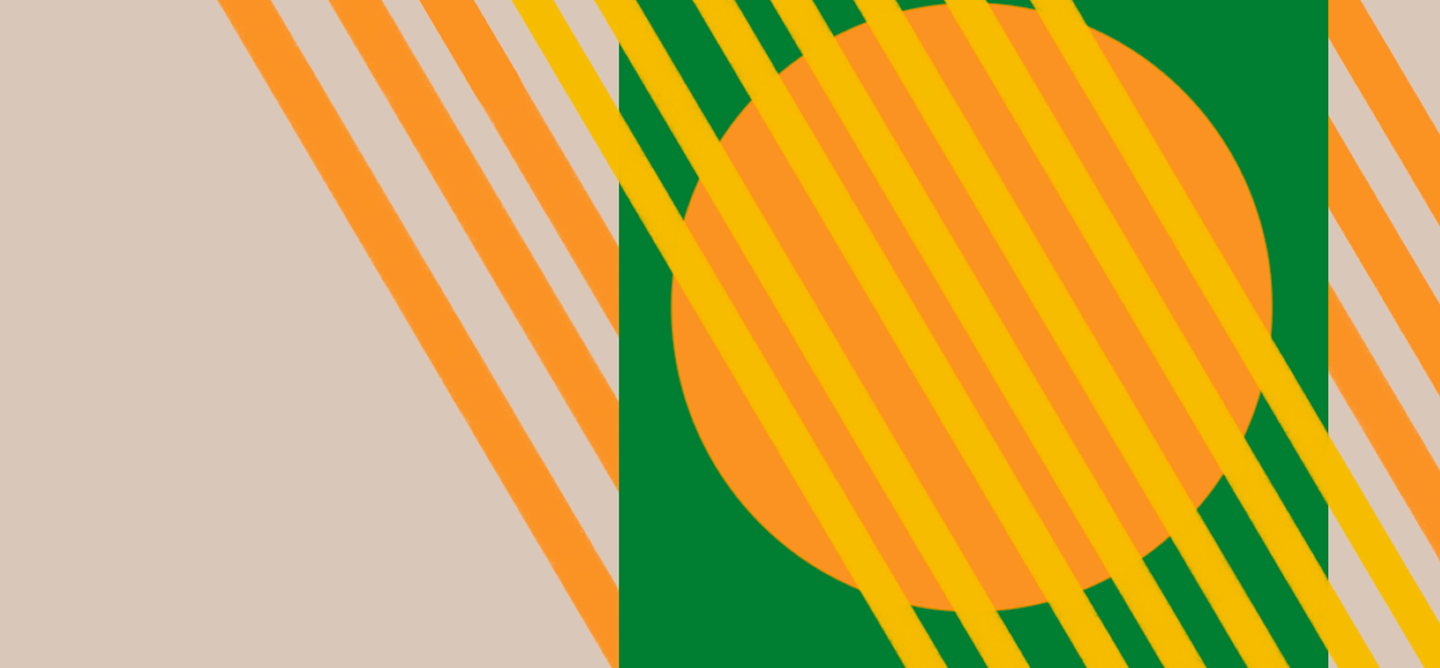
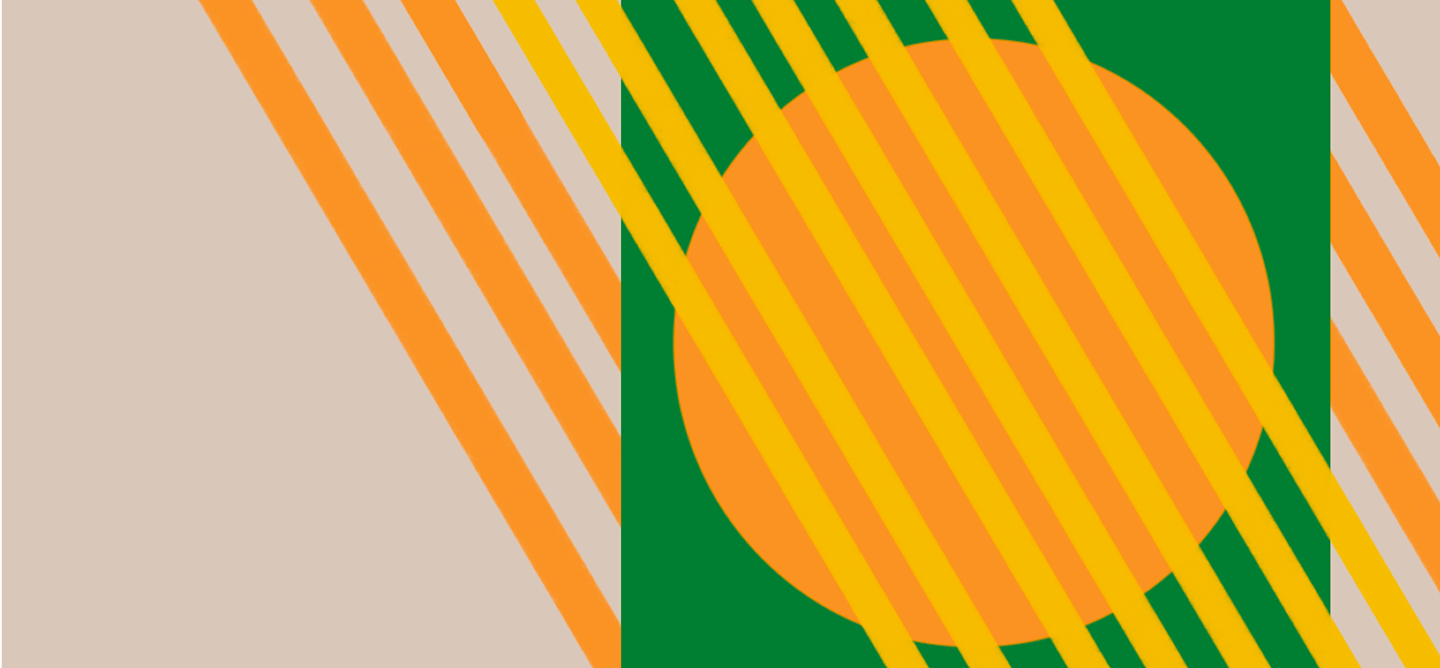
Hero content formatted
- background image adjustments
- button styling to show and hide different images on hover

diff --git a/assets/css/style.css b/assets/css/style.css
@@ -4,16 +4,6 @@
 *{
     font-size: 16px;
 }
-/*Heading styles*/
-
-h1, h2, h3 {
-    font-family: 'Hammersmith One', sans-serif;
-    font-size: 2.5rem;
-    font-weight: 400;
-    margin-bottom: 1rem;
-    color: #02310A;
-
-}
 
 /*Body text*/
 
@@ -26,39 +16,70 @@ p,a {
     color: #02310A;
 }
 
+/*Heading styles*/
+
+h1{
+    font-family: 'Hammersmith One', sans-serif;
+    font-size: 2.5rem;
+    font-weight: 400;
+    color: #02310A;
+}
+
+h2, h3{
+    font-family: 'Hammersmith One', sans-serif;
+    font-size: 2.5rem;
+    font-weight: 400;
+    color: #02310A;
+    margin-bottom: 1rem;
+}
+
 /* navigation */
 header{
     background-color:#4F833A;
+    display: flex;
+    flex-direction: row;
+    justify-content: space-between; 
+    align-items: center;            
+    padding: 1rem 5rem;
 }
 
-header a{
+ul a{
     color: white;
     text-decoration: none;
-    padding: 10px 15px;  
+    padding: 10px;  
     border-radius: 10px;
 
 }
 
-header a:hover{
+ul a:hover{
     color:#4F833A;
     background-color: white;
     transition: 0.5s; 
 }
 
-.logo{
-    color:white;
+.logo {
+    color: white;
+    text-decoration: none;
+    font-family: 'Hammersmith One', sans-serif;
+    font-size: 2.5rem;
+    font-weight: 400;
 }
 
+
+nav ul {
+    list-style: none;
+    display: flex;
+    gap: 1.5rem;
+    flex-wrap: wrap;
+}
 
 /* Main */
-main{
-    width: 90%; 
-}
 
 .homepage-content{
     display: flex;
     flex-wrap: wrap;
     gap: 1rem;
+    width: 90%;
 }
 
 .column{
@@ -66,4 +87,63 @@ main{
     min-width: 40vw;
     padding: 1rem;
     background-color: aliceblue;
+}
+
+.hero-content{
+    background-image: url("/11056_A3/assets/images/hero.png");
+    background-size: cover;
+    background-repeat: no-repeat;
+    background-position: center;
+    height: 80vh;
+}
+
+.content{
+    width: 40%;
+    padding-top: 20vh;
+    padding-left: 5rem;
+}
+.content h2{
+    text-transform: uppercase;
+    font-size: 4rem;
+}
+
+.button{
+    display: flex;
+    justify-content: space-between;
+    align-items: center;
+    padding: 0.9rem;
+    background-color: #4F833A;
+    border: none;
+    border-radius: 25px;
+    color: white;
+    gap: 10px;
+    text-decoration: none;
+    width: 160px;
+    position: relative;
+    overflow: hidden;
+}
+
+.button img{
+    transition: opacity 0.3s;
+    position: absolute;
+    right: 1vw;
+    pointer-events: none;
+}
+
+.arrow-hover{
+    opacity: 0;
+}
+
+.button:hover{
+    background-color: white;
+    color: #4F833A;
+    transition: 0.5s;
+}
+
+.button:hover .arrow-default{
+    opacity: 0;
+}
+
+.button:hover .arrow-hover{
+    opacity: 1;
 }

diff --git a/index.html b/index.html
@@ -9,30 +9,30 @@
 </head>
 <body>
     <header>
-        <div class="wrapper">
-        <h1 class="logo">GORDON ANDREWS</h1>
+        
+        <h1><a href="index.html" class="logo">GORDON ANDREWS</a></h1>
         <nav>
             <ul>
-                <li><a href="index.html">Home</a></li>
                 <li><a href="biography.html">Biography</a></li>
                 <li><a href="legacy.html">Influence and Legacy</a></li>
                 <li><a href="key-works.html">Key Works</a></li>
 
             </ul>
         </nav>
-    </div>
     </header>
     <main>   
-        <h1>Hello, World!</h1>
             <div class="hero-content">
+                <div class="content">
                 <h2>Learn about his legacy</h2>
                 <p>Throughout his design career, Andrews worked on countless projects and left behind a legacy as a renowned artist, 
                     graphic designer and industrial designer.</p>
-                <img src="assets/images/hero.png" alt="andrews design hero content">
+                <!-- <img src="assets/images/hero.png" alt="andrews design hero content" id="herobg"> -->
                 <a href="legacy.html" class="button">
-                    <p>Learn More</p>
-                    <img src="assets/images/buttonarrow.png" alt="button arrow"> 
+                    Learn More
+                    <img class="arrow-default" src="assets/images/buttonarrow.png" alt="button arrow">
+                    <img class="arrow-hover" src="assets/images/buttonarrowg.png" alt="button arrow green">
                 </a>
+            </div>
             </div>
             <div class="homepage-content">
             <div class="column left">
@@ -46,7 +46,7 @@
             </a>
             </div>
             <div class="column right">
-            <img src="assets/images/Frame 4.png">
+            <img src="assets/images/Frame 4.png" alt="Gordon Andrews designs">
             </div>
         </div>
         
@@ -56,7 +56,6 @@
         <h1 class="logo-footer">GORDON ANDREWS</h1>
         <nav>
             <ul>
-                <li><a href="index.html">Home</a></li>
                 <li><a href="biography.html">Biography</a></li>
                 <li><a href="legacy.html">Influence and Legacy</a></li>
                 <li><a href="key-works.html">Key Works</a></li>
